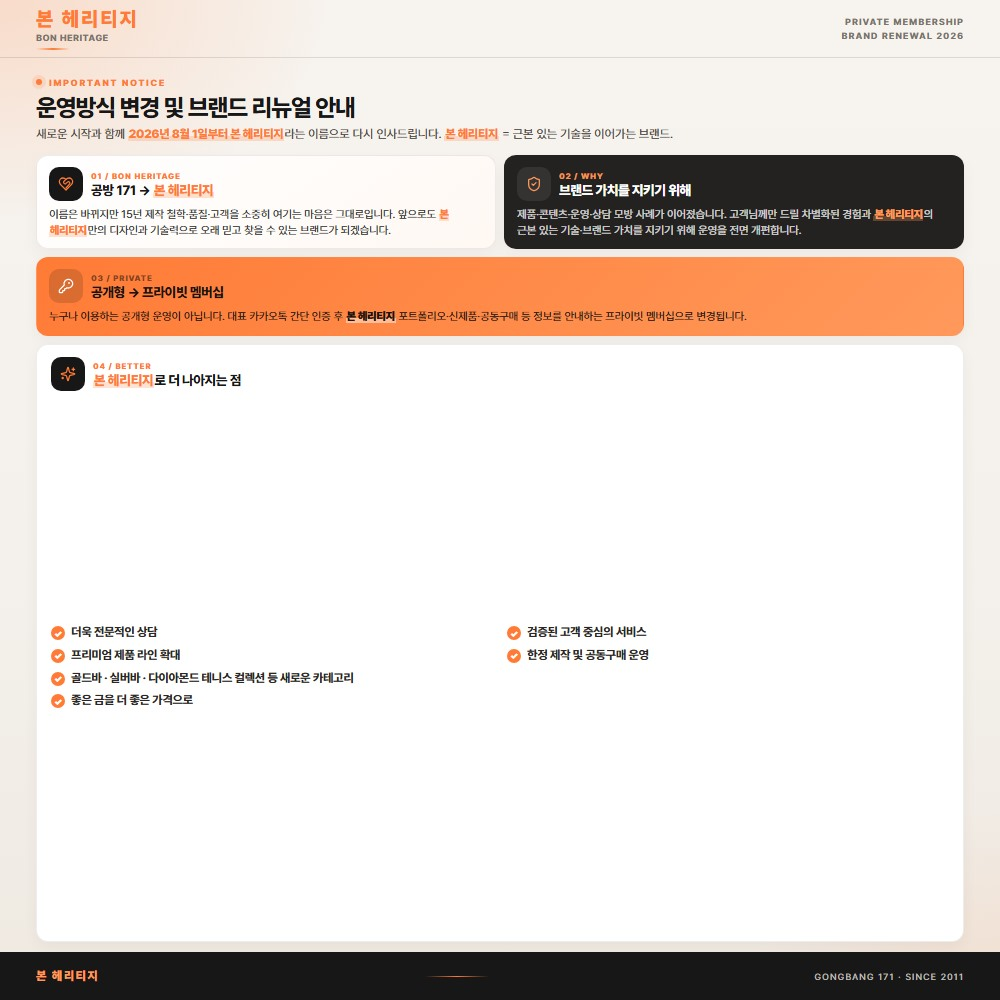
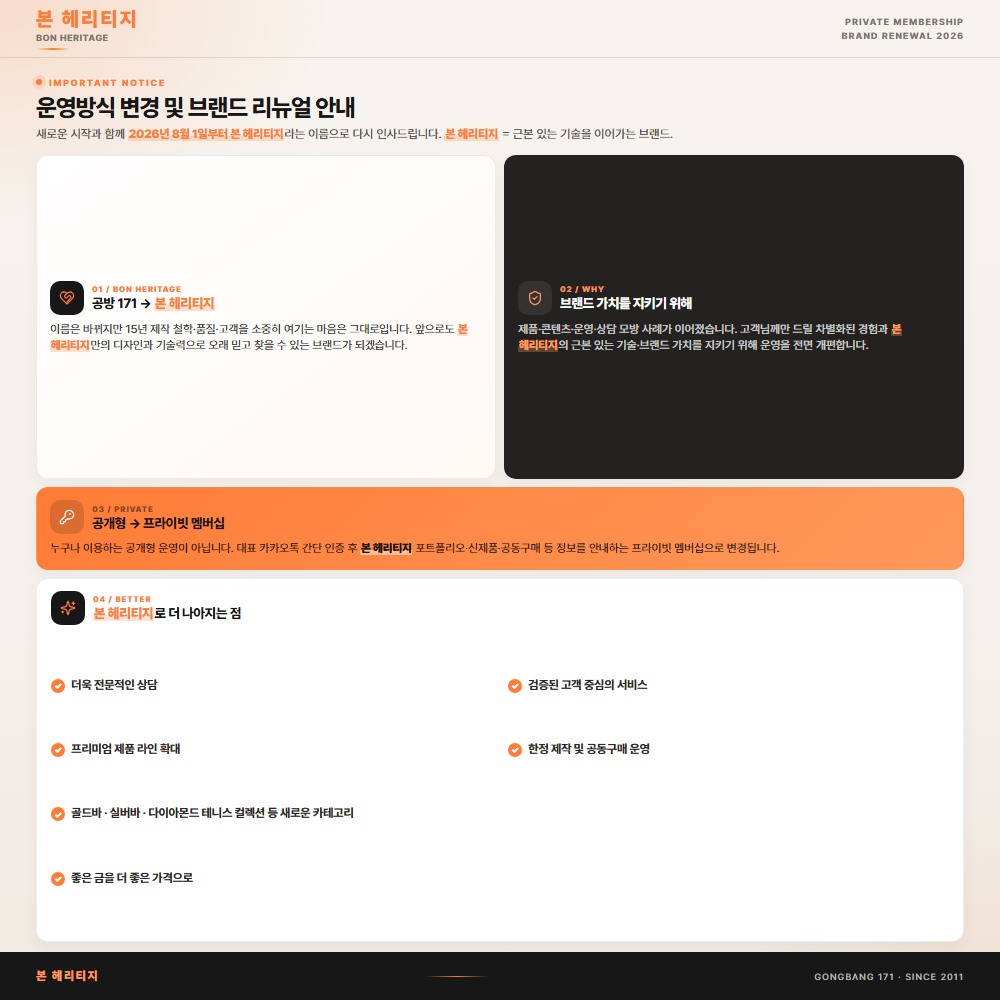
Fill 1000 poster section gaps by redistributing checklist spacing.

diff --git a/posters/renewal-1000.html b/posters/renewal-1000.html
@@ -136,20 +136,28 @@ body {
   display: grid;
   grid-template-columns: 1fr 1fr;
   gap: 8px;
-  flex: 0 0 auto;
+  flex: 1.05 1 auto;
+  min-height: 0;
 }
 .sec {
-  padding: 11px 12px 10px;
+  padding: 12px 13px;
   border-radius: 12px;
   border: 1px solid rgba(23,23,23,.08);
   background: rgba(255,255,255,.78);
   box-shadow: 0 6px 16px rgba(35,26,18,.045);
+}
+.pair .sec {
+  height: 100%;
+  display: flex;
+  flex-direction: column;
+  justify-content: center;
 }
 .sec.a { background: linear-gradient(145deg, #fff, #fff8f3); }
 .sec.b { background: #242220; color: #fff; border-color: transparent; }
 .sec.b .num { color: rgba(255,154,91,.95); }
 .sec.b .body { color: rgba(255,255,255,.78); }
 .sec.c {
+  flex: 0 0 auto;
   background: linear-gradient(135deg, var(--orange), #ff995b);
   color: #1b130f;
   border-color: transparent;
@@ -169,6 +177,7 @@ body {
   align-items: center;
   gap: 8px;
   margin-bottom: 6px;
+  flex-shrink: 0;
 }
 .icon-wrap {
   width: 34px;
@@ -207,18 +216,19 @@ h2 {
 }
 .body {
   margin: 0;
-  font-size: 11px;
-  line-height: 1.42;
+  font-size: 11.5px;
+  line-height: 1.45;
   color: #403d39;
   word-break: keep-all;
 }
 .checks {
   display: grid;
   grid-template-columns: 1fr 1fr;
-  gap: 7px 14px;
-  margin-top: 8px;
-  flex: 1;
-  align-content: center;
+  gap: 6px 16px;
+  margin-top: 4px;
+  flex: 1 1 auto;
+  min-height: 0;
+  align-content: space-evenly;
 }
 .check {
   display: flex;
